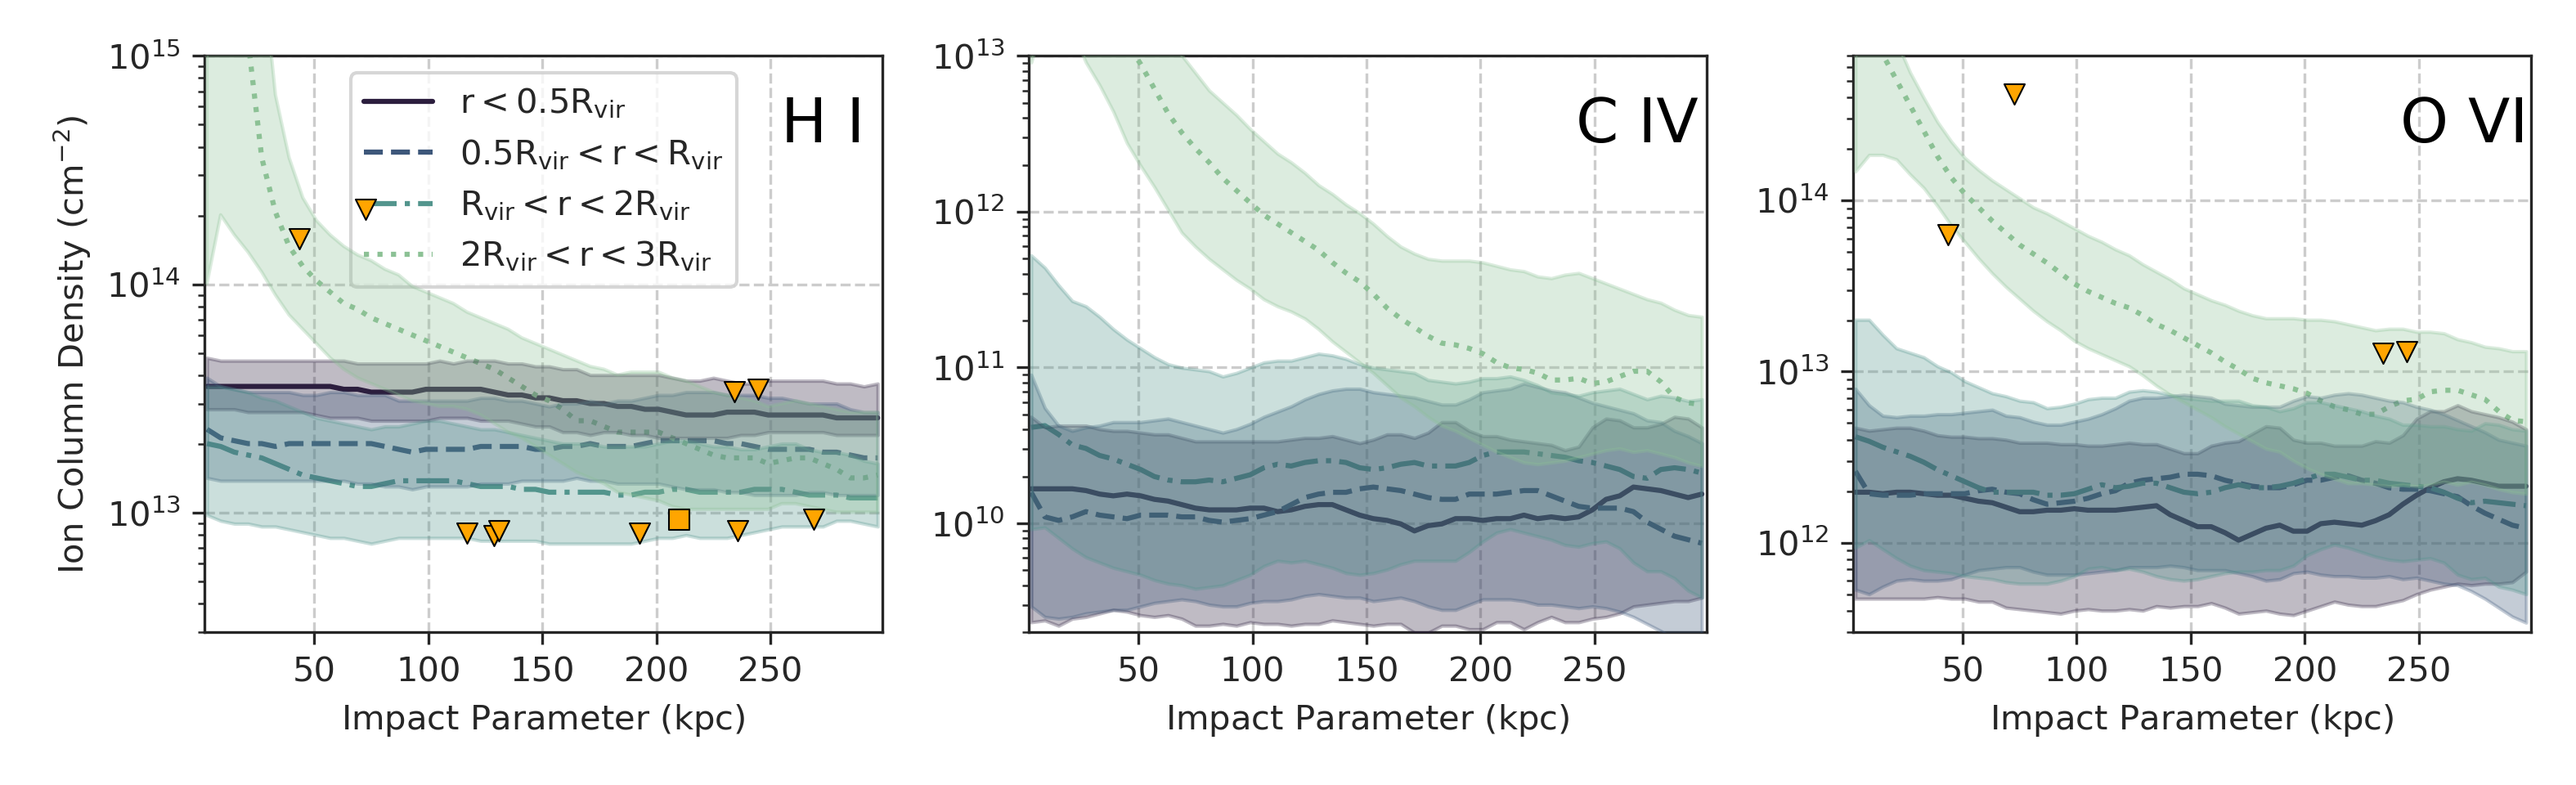
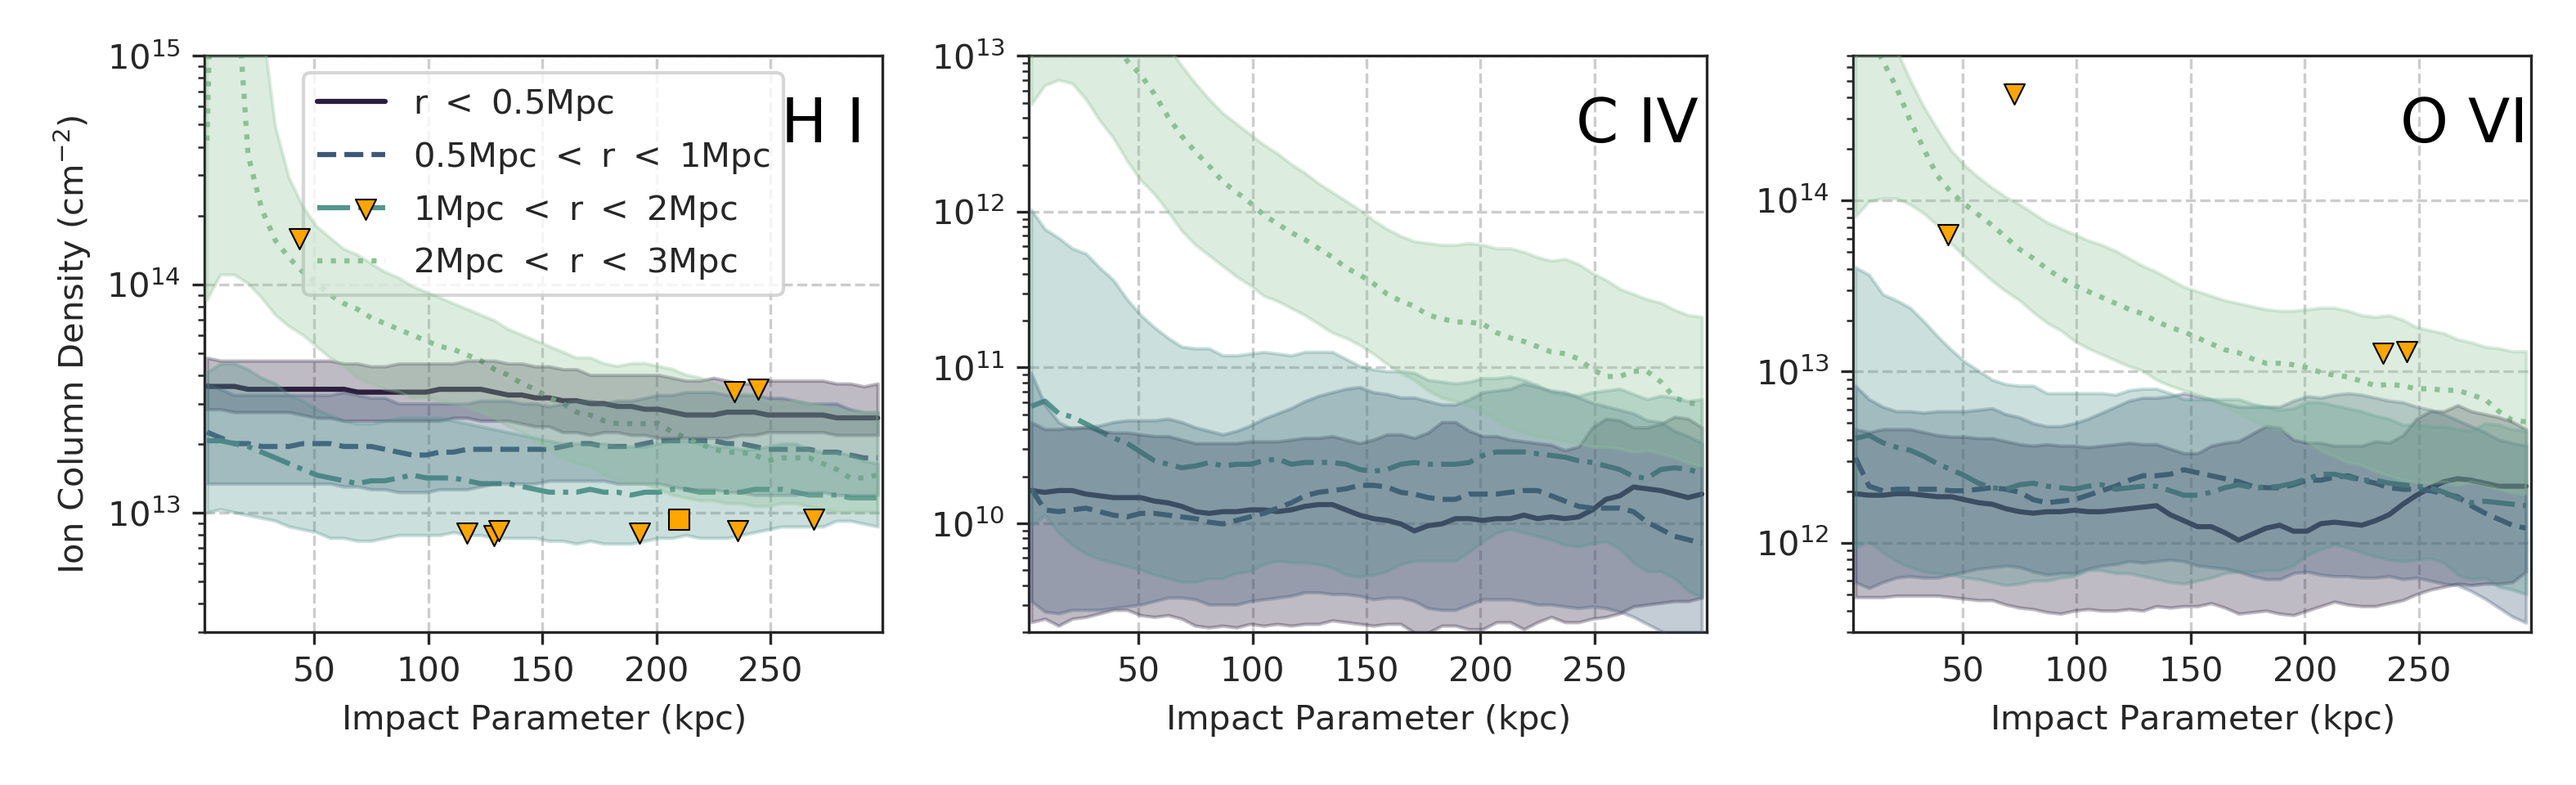
last minute plot changes

diff --git a/plot_multipanel_halo_ion.py b/plot_multipanel_halo_ion.py
@@ -61,17 +61,18 @@ def multipanel_ion_plot(sim, output, ion_list, plot_type, bin_type, do_colormesh
         linestyles = ['solid', 'dashed', 'dashdot']
     elif bin_type == 'dist':
         plot_bins = ['dist_1', 'dist_2', 'dist_3', 'dist_4']
-#        plot_bins = ['dist_5', 'dist_3', 'dist_4']
         plot_labels = ['$\mathrm{r} < 0.5 \mathrm{R}_{\mathrm{vir}}$', \
                        '$ 0.5 \mathrm{R}_{\mathrm{vir}} < \mathrm{r} < \mathrm{R}_{\mathrm{vir}}$', \
                        '$ \mathrm{R}_{\mathrm{vir}} < \mathrm{r} < 2 \mathrm{R}_{\mathrm{vir}}$' ,\
                        '$ 2 \mathrm{R}_{\mathrm{vir}} < \mathrm{r} < 3 \mathrm{R}_{\mathrm{vir}}$']
- #       plot_labels = ['$\mathrm{r} < \mathrm{R}_{200}$', \
-  #                     '$\mathrm{R}_{200} < \mathrm{r} < 2 \mathrm{R}_{200}$', \
-   #                    '$\mathrm{r} > 2 \mathrm{R}_{200}$']
+        plot_labels = ['$\mathrm{r}\ <\ 0.5 \mathrm{Mpc}$', \
+                       '$0.5\mathrm{Mpc}\ <\ \mathrm{r}\ <\ 1 \mathrm{Mpc}$',
+                       '$1 \mathrm{Mpc}\ <\ \mathrm{r}\ <\ 2 \mathrm{Mpc}$',
+                       '$2 \mathrm{Mpc}\ <\ \mathrm{r}\ <\ 3 \mathrm{Mpc}$']
+
 
         linestyles = ['solid', 'dashed', 'dashdot', 'dotted']
-    #    linestyles = ['solid', 'dashed', 'dotted']
+
     fig, figax = plt.subplots(nrows = nrows, ncols = ncols, figsize=(3.5*ncols, 3.2*nrows), sharex = True, sharey = sharey)
     
     for i, ion_name in enumerate(ion_list):
@@ -143,6 +144,8 @@ def multipanel_ion_plot(sim, output, ion_list, plot_type, bin_type, do_colormesh
         y_factor = 0.85
         if plot_type == 'cfrac' and ion == 'HI':
             y_factor = 0.15
+#        elif plot_type == 'column' and ion == 'HI':
+ #           x_factor = 
         ipd.annotate_ion_name(ax, ion_name, x_factor = x_factor, y_factor = y_factor)
         fig.tight_layout()
         plt.savefig('%s_%06d_multipanel_%s_halo_%s.png'%(sim, output, plot_type, bin_type), dpi = 300)
@@ -172,6 +175,9 @@ output = 3035
 plot_type = 'cfrac'
 multipanel_ion_plot(sim, output, ion_list, plot_type, 'dist', combine = False)
 
-output = 3360
+
 plot_type = 'column'
+multipanel_ion_plot(sim, output, ion_list, plot_type, 'dist', combine = False, do_colormesh = True)
+
+output = 3360
 multipanel_ion_plot(sim, output, ion_list, plot_type, 'dist', combine = True, combined_output_list = [3697])

diff --git a/generate_halo_combined_column_data.py b/generate_halo_combined_column_data.py
@@ -83,23 +83,23 @@ def combine_halo_column_densities(sim, output, ion_list, rmax = 300, mask = None
                 num_high += 1
                 
             if sim == 'romulusC':
-                if dtc < 0.5*cluster_rvir:
+                if dtc < 500:
                     d1_r = np.concatenate((d1_r, r_arr))
                     d1_c = np.concatenate((d1_c, cdens_arr))
 
-                elif dtc >= 0.5*cluster_rvir and dtc < cluster_rvir:
+                elif dtc >= 500 and dtc < 1000:
                     d2_r = np.concatenate((d2_r, r_arr))
                     d2_c = np.concatenate((d2_c, cdens_arr))
 
-                elif dtc >= cluster_rvir and dtc < 2*cluster_rvir:
+                elif dtc >= 1000 and dtc < 2000:
                     d3_r = np.concatenate((d3_r, r_arr))
                     d3_c = np.concatenate((d3_c, cdens_arr))
 
-                elif dtc >= 2*cluster_rvir: 
+                elif dtc >= 2000 and dtc < 3000: 
                     d4_r = np.concatenate((d4_r, r_arr))
                     d4_c = np.concatenate((d4_c, cdens_arr))
 
-                if dtc < cluster_rvir:
+                if dtc > 3000:
                     d5_r = np.concatenate((d5_r, r_arr))
                     d5_c = np.concatenate((d5_c, cdens_arr))
         print('analyzed %i low-mass, %i med-mass, and %i high-mass galaxies'%(num_low, num_med, num_high))
